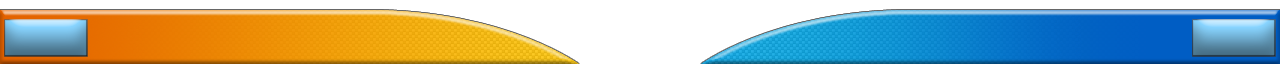
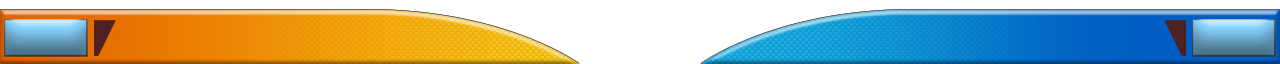
Updated images for team setup

Changed region(s): [[0.9062, 0.3125, 0.9375, 0.875], [0.0625, 0.3125, 0.0938, 0.875]]

diff --git a/wheel/teams.html b/wheel/teams.html
@@ -51,7 +51,7 @@
 			.onTopOfEachOther span {
 				position: absolute;
 				top: 6px;
-				left: 94px;
+				left: 120px;
 				width: 370px;
 				line-height: 64px;
 				vertical-align: middle;
@@ -60,7 +60,7 @@
 			}
 			#blueDisplay.onTopOfEachOther span {
 				left: auto;
-				right: 94px;
+				right: 120px;
 				text-align: right;
 			}
 			#ys {
@@ -93,6 +93,7 @@
 				width: 640px;
 			}
 			#yellowDisplay.active, #blueDisplay.active {
+                background-image: url("Score-Overlay-On.png");
 				color: white;
 				-webkit-text-stroke: 1px black;
 			}
